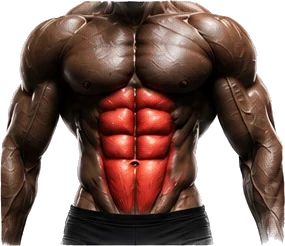
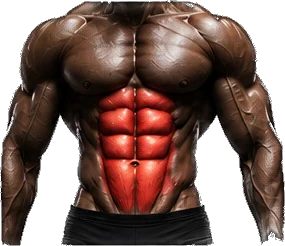
Vignettes des muscles : plus de liseré blanc autour des sujets
Le seuil binaire du premier découpage gardait une frange laiteuse.
Mesurée en traversant un bord, la transition du fond blanc vers le sujet
s'étale sur SIX pixels (253 → 230 → 185 → 157 → 114 → 89) : couper au
milieu laisse en opaque des pixels à moitié blancs.

Trois passes, chacune contre un défaut distinct :

- **alpha continu** sur la bande qui borde le fond — repérée par
  remplissage depuis les bords, pour ne pas trouer un reflet clair au
  milieu d'une épaule ;
- **décontamination** : le pixel observé vaut `C = α·F + (1−α)·blanc`,
  on retire la part de blanc pour retrouver `F`. Sans elle le contour
  reste laiteux même avec le bon alpha ;
- **extinction de la lumière de contour** : le liseré restant n'était
  plus du matting mais l'éclairage des sujets eux-mêmes, calculé POUR un
  fond blanc. Sur fond sombre ce halo se lit comme un trait. Les quatre
  derniers pixels s'assombrissent progressivement — on éteint la lumière
  au lieu de découper, la silhouette reste douce.

Contrôle chiffré : les pixels de bord sont désormais aussi sombres ou
plus sombres que le cœur du sujet sur onze des douze images ; la
douzième (`triceps`) est à +12 de luminance, invisible à la taille
d'affichage. Poids inchangé, 163 Ko pour les douze.

Vérifications : flutter analyze, flutter test (211), captures
régénérées.

Claude-Session: https://claude.ai/code/session_01TMYPMdp66k8BNoaYZibz8b

diff --git a/docs/product/design-conformity.md b/docs/product/design-conformity.md
@@ -175,6 +175,25 @@ Détourages anatomiques fournis par le produit (générés), embarqués dans
 ligne. Les images PAR EXERCICE suivront un autre chemin : elles seront des
 centaines et modifiables depuis l'admin, donc servies par le serveur.
 
+**Le détourage, en trois passes.** La planche est fournie en JPEG sur fond
+blanc, sans canal alpha. Un seuil binaire ne suffit pas : mesurée sur un bord,
+la transition s'étale sur **six pixels** (253 → 230 → 185 → 157 → 114 → 89), et
+couper au milieu garde une frange laiteuse. D'où :
+
+1. **alpha continu** sur la bande qui borde le fond — repérée par remplissage
+   depuis les bords, pour ne pas trouer un reflet clair au milieu d'une épaule ;
+2. **décontamination** : le pixel observé vaut `C = α·F + (1−α)·blanc`, on
+   retire la part de blanc pour retrouver `F`. Sans elle, le contour reste
+   laiteux même avec le bon alpha ;
+3. **extinction de la lumière de contour** : les sujets sont éclairés POUR un
+   fond blanc, et ce halo se lit comme un trait sur fond sombre. Les quatre
+   derniers pixels s'assombrissent progressivement — on éteint la lumière au
+   lieu de découper, la silhouette reste douce.
+
+Contrôle : sur onze des douze images, les pixels de bord sont désormais **aussi
+sombres ou plus sombres** que le cœur du sujet. Le douzième (`triceps`) est à
++12 de luminance, invisible à la taille d'affichage.
+
 Le nom du groupe est écrit **par l'application**, jamais gravé dans l'image :
 il vient du référentiel de l'API, il se traduit, et il reste net à toutes les
 tailles. L'image ne porte que l'anatomie.
